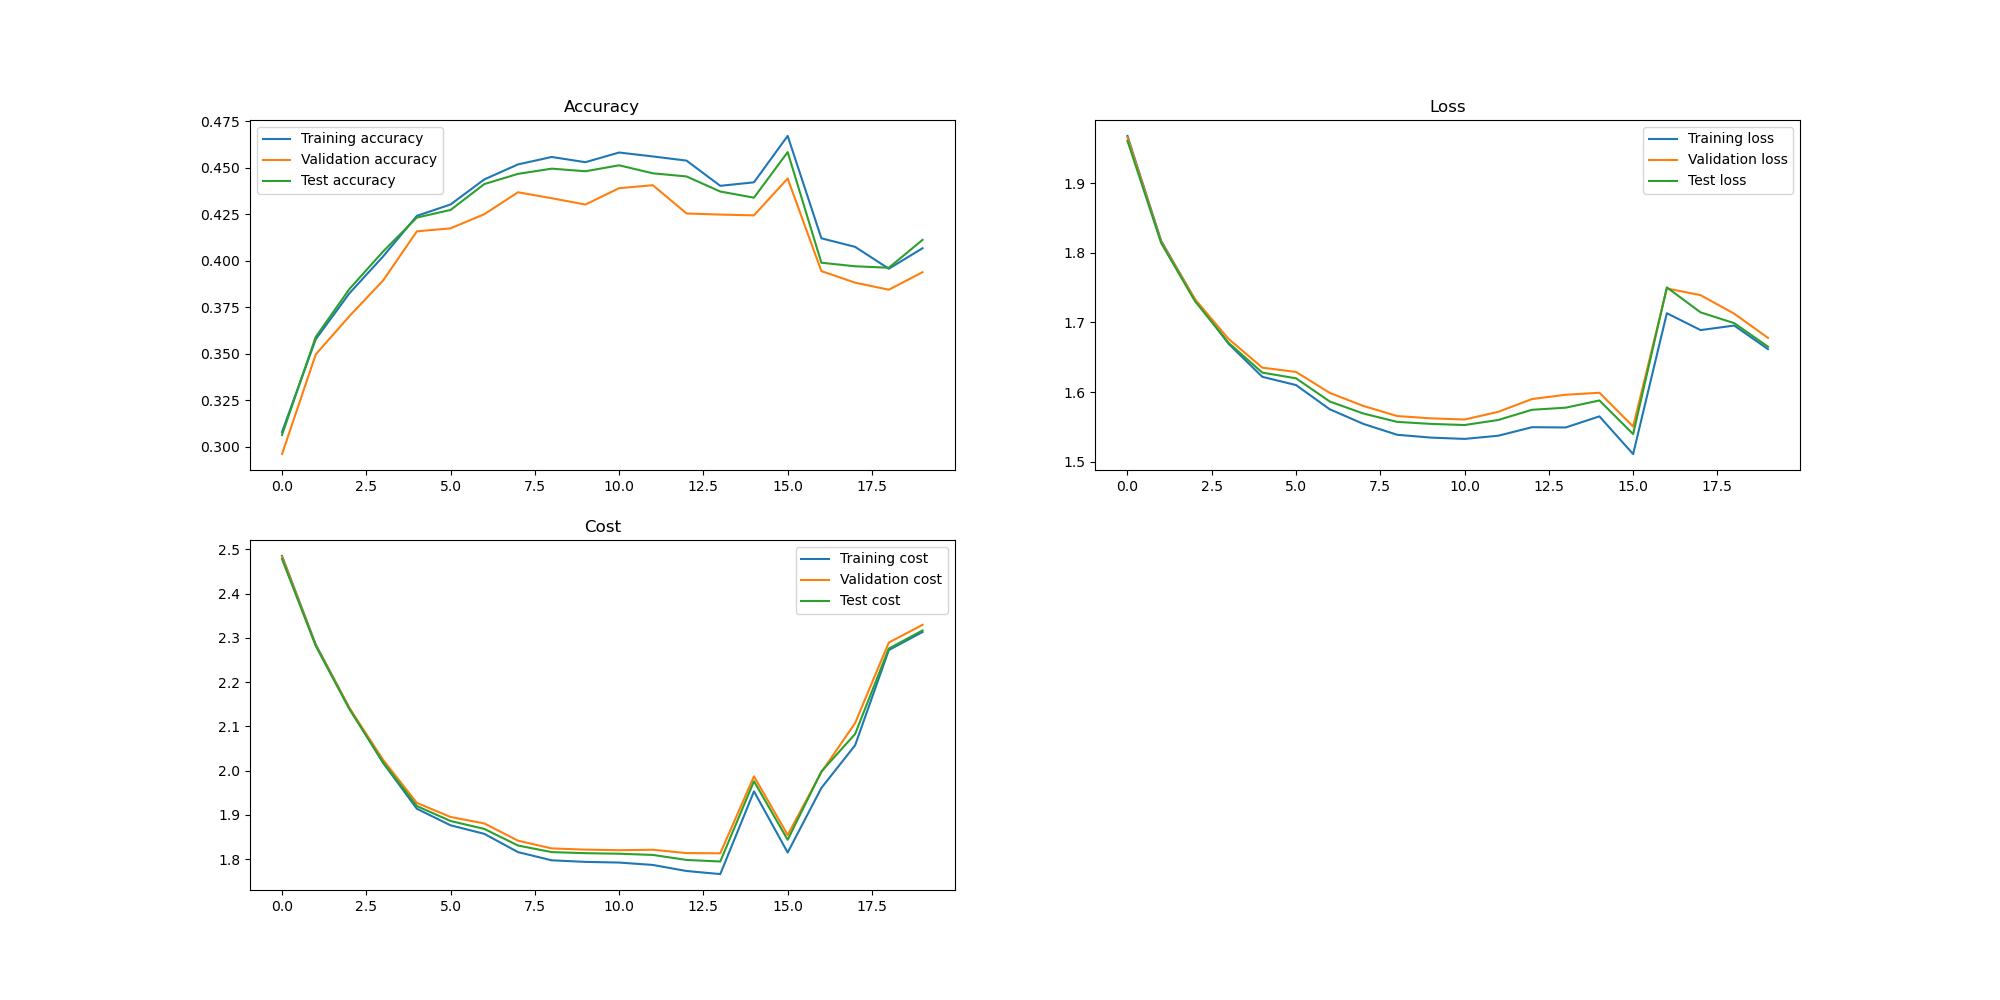
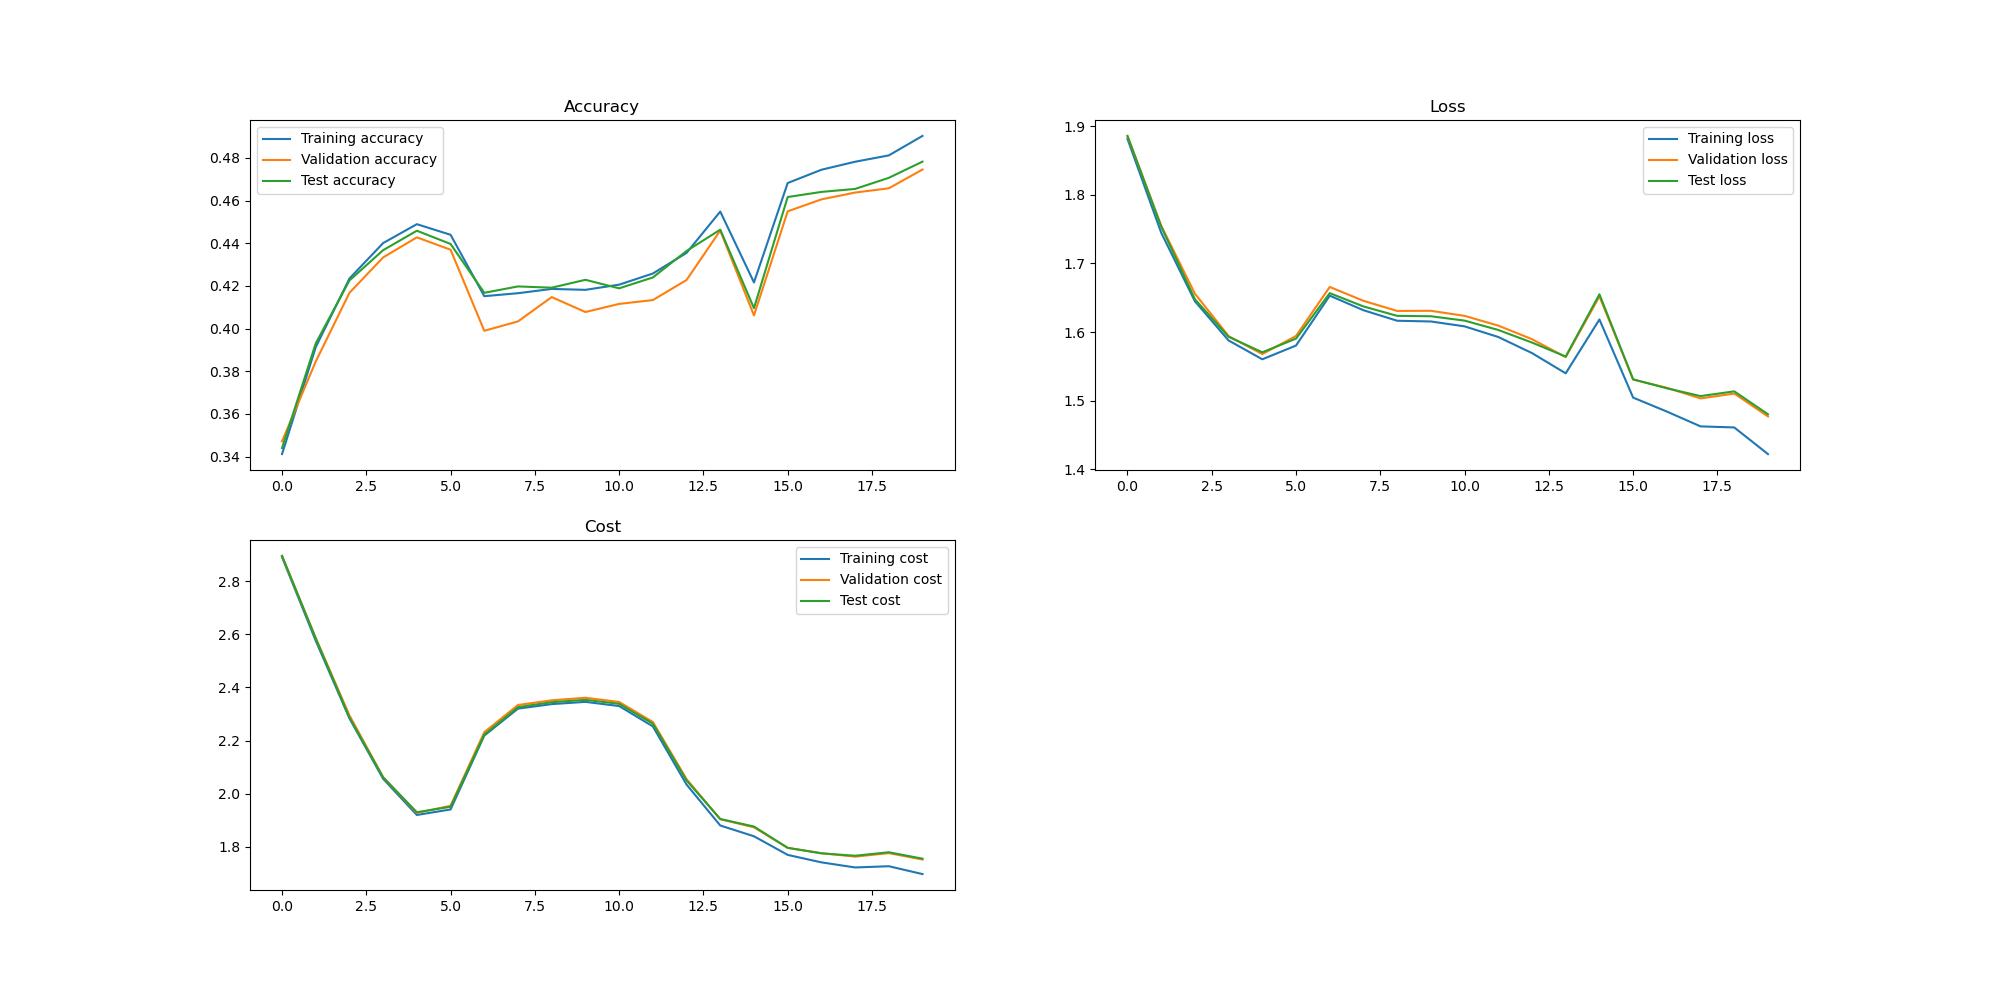
Comparision available

diff --git a/Labs/Lab 3/lab3.py b/Labs/Lab 3/lab3.py
@@ -139,15 +139,14 @@ def batch_normalize(score, mean, variance):
   return norm
 
 def batch_normalised_backpass(g, s, mean, var):
-  # Taken from the assignment notes
-  sigma1 = np.power(var + np.finfo(float).eps, -1 / 2).T[:, np.newaxis]
-  sigma2 = np.power(var + np.finfo(float).eps, -3 / 2).T[:, np.newaxis]
-  G1 = g * sigma1
-  G2 = g * sigma2
-  D = s - mean[:, np.newaxis]
-  c = np.sum(G2 * D, axis=1)[:, np.newaxis]
-  gradient_batch = G1 - (1 / D.shape[1]) * np.sum(G1, axis=1)[:, np.newaxis] - (1 / g.shape[1]) * D * c
-  return gradient_batch
+    sigma_1 = np.power(  + np.finfo(float).eps, -0.5).T[:, np.newaxis]
+    sigma_2 = np.power(var + np.finfo(float).eps, -1.5).T[:, np.newaxis]
+    g1 = g * sigma_1
+    g2 = g * sigma_2
+    d = s - mean[:, np.newaxis]
+    c = np.sum(g2 * d, axis=1)[:, np.newaxis]
+    g_batch = g1 - (1 / g.shape[1]) * np.sum(g1, axis=1)[:, np.newaxis] - (1 / g.shape[1]) * d * c
+    return g_batch
 
 def forward_pass(data, weights, bias, gamma=None, beta= None, mean = None, var = None, do_batchNorm = False):
   """@docstring:
@@ -191,18 +190,11 @@ def forward_pass(data, weights, bias, gamma=None, beta= None, mean = None, var =
       layers.append(relu(s_tilde)) # Get the relu of the scores and append them to the list
     # Get the scores and append them to the list
     scores_list.append(get_scores(layers[-1], weights[-1], bias[-1]))
-    layers.append(softmax(scores_list[-1])) # Softmax of the last layer and append it to the list   
+    layers.append(softmax(scores_list[-1])) # Softmax of the last layer and append it to the list  
     return layers, scores_list,batch_normalised_scores, mean_list, variance_list, 
   
 
 def back_pass(data, labels, weights, reg, softmax, scores, s_hat, gamma= None, mean = None, var = None, do_batchNorm = False):
-  """
-  Edit: This part of the code was heavily inspired by other students who sat with me and 
-  helped me debug. I tried like in previously from assignemnt 2 to use -i iteration and iterate through data
-  however since in my forward pass I do a softmax at the end, it made it slighly more difficult for me. I got lazy 
-  and got help to try this way. I understand the code and everything else but want to point this out in the case that 
-  it raises any concerns.
-  """
   weights_gradients = list()
   bias_gradients = list()
   if not do_batchNorm:
@@ -237,8 +229,8 @@ def back_pass(data, labels, weights, reg, softmax, scores, s_hat, gamma= None, m
       gradient_beta.append(np.sum(g, axis=1)[:, np.newaxis] / data[0].shape[1])
       g = gamma[i] * g
       g = batch_normalised_backpass(g, scores[i], mean[i], var[i])
-
-      weights_gradients.append(((g @ data[i].T) /data[0].shape[1]) + 2 * reg * weights[i]) # Derivative of the loss with respect to the weights
+  
+      weights_gradients.append(((g @ data[i].T) /data[0].shape[1]) + (2 * reg * weights[i])) # Derivative of the loss with respect to the weights
       bias_gradients.append(np.sum(g, axis=1)[:, np.newaxis] / data[0].shape[1]) # Bias gradient
       if i>0:
         g = weights[i].T @ g # Previous layer 
@@ -282,7 +274,7 @@ def init_network(data, hidden_layers, he = False, Sigma = None):
 
   # This is the first layer
   if Sigma is not None:
-    weights.append(np.random.normal(0, Sigma,(hidden_layers[0], data.shape[0])))  # Dim: m x d
+    weights.append(np.random.normal(0, Sigma,(hidden_layers[0], data.shape[0]))) 
   else:
     weights.append(np.random.normal(0, np.sqrt(number / data.shape[0]),(hidden_layers[0], data.shape[0])))  # Dim: m x d
 
@@ -300,8 +292,8 @@ def init_network(data, hidden_layers, he = False, Sigma = None):
     gamma = list()
     beta = list()
     for i in range(len(hidden_layers)-1):
-      gamma.append(np.ones((hidden_layers[i], 1)))
-      beta.append(np.zeros((hidden_layers[i], 1)))  
+      gamma.append(np.ones((hidden_layers[i], 1))) # Dim: m x 1
+      beta.append(np.zeros((hidden_layers[i], 1)))  # Dim: m x 1
 
   return weights, bias, gamma, beta
 
@@ -330,9 +322,10 @@ def update_weights_bias(weights, bias, grad_weights, grad_bias, learning_rate, g
   else:
     gamma = None
     beta = None
+
   return weights, bias, gamma, beta
 
-def sgd_minibatch(data_train, data_val, data_test, weights, bias, labels_train, labels_val, labels_test, learning_rate, reguliser, batch_size, cycles,gamma, beta, do_plot = False, do_batchNorm = False, name_of_file=""):
+def sgd_minibatch(data_train, data_val, data_test, weights, bias, labels_train, labels_val, labels_test, learning_rate, reguliser, batch_size, cycles, gamma, beta, do_plot = False, do_batchNorm = False, name_of_file=""):
   eta_min = 1e-5
   eta_max = 1e-1
   step_size = (data_train.shape[1] / batch_size)*5
@@ -435,6 +428,89 @@ def do_plotting(train_loss, vaidation_loss, test_loss, train_accuracy, validatio
   plt.show()  
 
 
+def compute_gradients_slow(data, labels, weights, bias, gamma, beta, reguliser, do_batchNorm, h=1e-5):    
+  grad_weights = []
+  grad_bias = []
+  grad_gamma = []
+  grad_beta = []
+  
+  for j in range(len(bias)):
+      grad_bias_layer = np.zeros(bias[j].shape)
+      for i in tqdm(range(grad_bias_layer.shape[0])):
+          for k in range(grad_bias_layer.shape[1]):
+              b_try = [np.copy(x) for x in bias]
+              b_try[j][i, k] -= h
+              probs = forward_pass(data, weights, b_try,gamma, beta, None, None, do_batchNorm)[0][-1]
+              c1 = compute_cost(data, labels, weights, b_try, reguliser, probs)
+              b_try = [np.copy(x) for x in bias]
+              b_try[j][i, k] += h
+              probs = forward_pass(data, weights, b_try,gamma, beta, None, None, do_batchNorm)[0][-1]
+              c2 = compute_cost(data, labels, weights, b_try, reguliser, probs)
+              grad_bias_layer[i, k] = (c2 - c1) / (2 * h)
+      grad_bias.append(grad_bias_layer)
+  
+  for j in range(len(weights)):
+      grad_weights_layer = np.zeros(weights[j].shape)
+      for i in tqdm(range(grad_weights_layer.shape[0])):
+          for k in range(grad_weights_layer.shape[1]):
+              w_try = [np.copy(x) for x in weights]
+              w_try[j][i, k] -= h
+              probs = forward_pass(data, w_try, bias,gamma, beta, None, None, do_batchNorm)[0][-1]              
+              c1 = compute_cost(data, labels, w_try, bias,reguliser, probs)
+              w_try = [np.copy(x) for x in weights]
+              w_try[j][i, k] += h
+              probs = forward_pass(data, w_try, bias,gamma, beta, None, None, do_batchNorm)[0][-1]
+              c2 = compute_cost(data, labels, w_try, bias, reguliser, probs)
+              grad_weights_layer[i, k] = (c2 - c1) / (2 * h)
+      grad_weights.append(grad_weights_layer)
+  
+  if do_batchNorm:
+      for j in tqdm(range(len(gamma))):
+          grad_gamma_layer = np.zeros(gamma[j].shape)
+          for i in range(grad_gamma_layer.shape[0]):
+              for k in range(grad_gamma_layer.shape[1]):
+                  g_try = [np.copy(x) for x in gamma]
+                  g_try[j][i, k] -= h
+                  probs = forward_pass(data, weights, bias, reguliser, g_try, beta, None, None, do_batchNorm)[0][-1]
+                  c1 = compute_cost(data, labels, weights, bias, reguliser, probs)
+                  g_try = [np.copy(x) for x in gamma]
+                  g_try[j][i, k] += h
+                  probs = forward_pass(data, weights, bias, reguliser, g_try, beta, None, None, do_batchNorm)[0][-1]
+                  c2 = compute_cost(data, labels, weights, bias, reguliser, probs)
+                  grad_gamma_layer[i, k] = (c2 - c1) / (2 * h)
+          grad_gamma.append(grad_gamma_layer)
+      
+      for j in tqdm(range(len(beta))):
+          grad_beta_layer = np.zeros(beta[j].shape)
+          for i in range(grad_beta_layer.shape[0]):
+              for k in range(grad_beta_layer.shape[1]):
+                  bt_try = [np.copy(x) for x in beta]
+                  bt_try[j][i, k] -= h
+                  c1 = compute_cost(data, labels, weights, bias, reguliser, gamma, bt_try, None, None, do_batchNorm)
+                  bt_try = [np.copy(x) for x in beta]
+                  bt_try[j][i, k] += h
+                  c2 = compute_cost(data, labels, weights, bias, reguliser, gamma, bt_try, None, None, do_batchNorm)
+                  grad_beta_layer[i, k] = (c2 - c1) / (2 * h)
+          grad_beta.append(grad_beta_layer)
+  
+  return grad_weights, grad_bias, grad_gamma, grad_beta
+
+  # Function that calcalutes the gradients using the two methods and compares them. Takes only 100 data points
+def compare_gradients(data, labels, weights, bias, gamma, beta, reguliser, do_batchNorm):
+  grad_weights_fast, grad_bias_fast, grad_gamma_fast, grad_beta_fast = back_pass(data, labels, weights, reguliser, forward_pass(data, weights, bias, gamma, beta, do_batchNorm=do_batchNorm)[0][-1], forward_pass(data, weights, bias, gamma, beta, do_batchNorm=do_batchNorm)[1][-1], forward_pass(data, weights, bias, gamma, beta, do_batchNorm=do_batchNorm)[2], gamma, forward_pass(data, weights, bias, gamma, beta, do_batchNorm=do_batchNorm)[3], forward_pass(data, weights, bias, gamma, beta, do_batchNorm=do_batchNorm)[4], do_batchNorm=do_batchNorm)
+  grad_weights, grad_bias, grad_gamma, grad_beta = compute_gradients_slow(data, labels, weights, bias, gamma, beta, reguliser, do_batchNorm)
+  for i in range(len(grad_weights)):
+    print("Weights: ", np.allclose(grad_weights[i], grad_weights_fast[i]))
+    print("Bias: ", np.allclose(grad_bias[i], grad_bias_fast[i]))
+  if do_batchNorm:
+    for i in range(len(grad_gamma)):
+      print("Gamma: ", np.allclose(grad_gamma[i], grad_gamma_fast[i]))
+      print("Beta: ", np.allclose(grad_beta[i], grad_beta_fast[i]))
+
+  return grad_weights, grad_bias, grad_gamma, grad_beta, grad_weights_fast, grad_bias_fast, grad_gamma_fast, grad_beta_fast
+
+
+
 def main():
   #Getting started
   data_train, labels_train, data_val, labels_val, data_test, labels_test, labels = read_data(5000)  
@@ -444,9 +520,23 @@ def main():
   labels_train, labels_val, labels_test = encode_all(labels_train, labels_val, labels_test)
 
   # Initialising the network
-  weights, bias, gamma,beta = init_network(data_train, [50,50,10], he = False)
+  weights, bias, gamma,beta = init_network(data_train, [50, 30, 20, 20, 10, 10, 10, 10], he = True)
 
-  print("Size of the data_train: ", data_train.shape)
+  print("Do you want to compare the gradients? (y/n)")
+  answer = input()
+  if answer == "y":
+    print("Comparing...")
+    # Takes only 100 data points 
+    data_train = data_train[:, :10]
+    labels_train = labels_train[:, :10]
+    compare_gradients(data_train, labels_train, weights, bias, gamma, beta, 0.005, do_batchNorm=True)
+  print("Do you want to stop the network? (y/n)")
+  answer = input()
+  if answer == "y":
+    print("Stopping...")
+    sys.exit()
+  elif answer == "n":
+    print("Running...")
  
   config = {
     'data_train': data_train,
@@ -457,44 +547,16 @@ def main():
     'labels_train': labels_train,
     'labels_val': labels_val,
     'labels_test': labels_test,
-    'learning_rate': 0.01,
+    'learning_rate': 0.1,
     'reguliser': 0.005,
     'batch_size': 100,
     'cycles': 2,
     'do_plot': True,
     'do_batchNorm': True,
-    'name_of_file': "Batch_normalisation_50_50_10_reg_0.005",
+    'name_of_file': "debug_batchnorm-reg0.005_50, 30, 20,20, 10, 10, 10, 10",
     'gamma': gamma,
     'beta': beta
 }  
   weights, bias = sgd_minibatch(**config)
-  
-  # Initialising the network again
-  weights, bias, gamma,beta = init_network(data_train, [50,50,10], he = False)
-  
-  config2 = {
-  'data_train': data_train,
-  'data_val': data_val,
-  'data_test': data_test,
-  'weights': weights,
-  'bias': bias,
-  'labels_train': labels_train,
-  'labels_val': labels_val,
-  'labels_test': labels_test,
-  'learning_rate': 0.01,
-  'reguliser': 0.005,
-  'batch_size': 100,
-  'cycles': 2,
-  'do_plot': True,
-  'do_batchNorm': False,
-  'name_of_file': "No-Batch_normalisation_50_50_10_reg_0.005",
-  'gamma': gamma,
-  'beta': beta
-}
-
-
-  weights2, bias2 = sgd_minibatch(**config2)
-
-
 if __name__ == "__main__":
   main()
